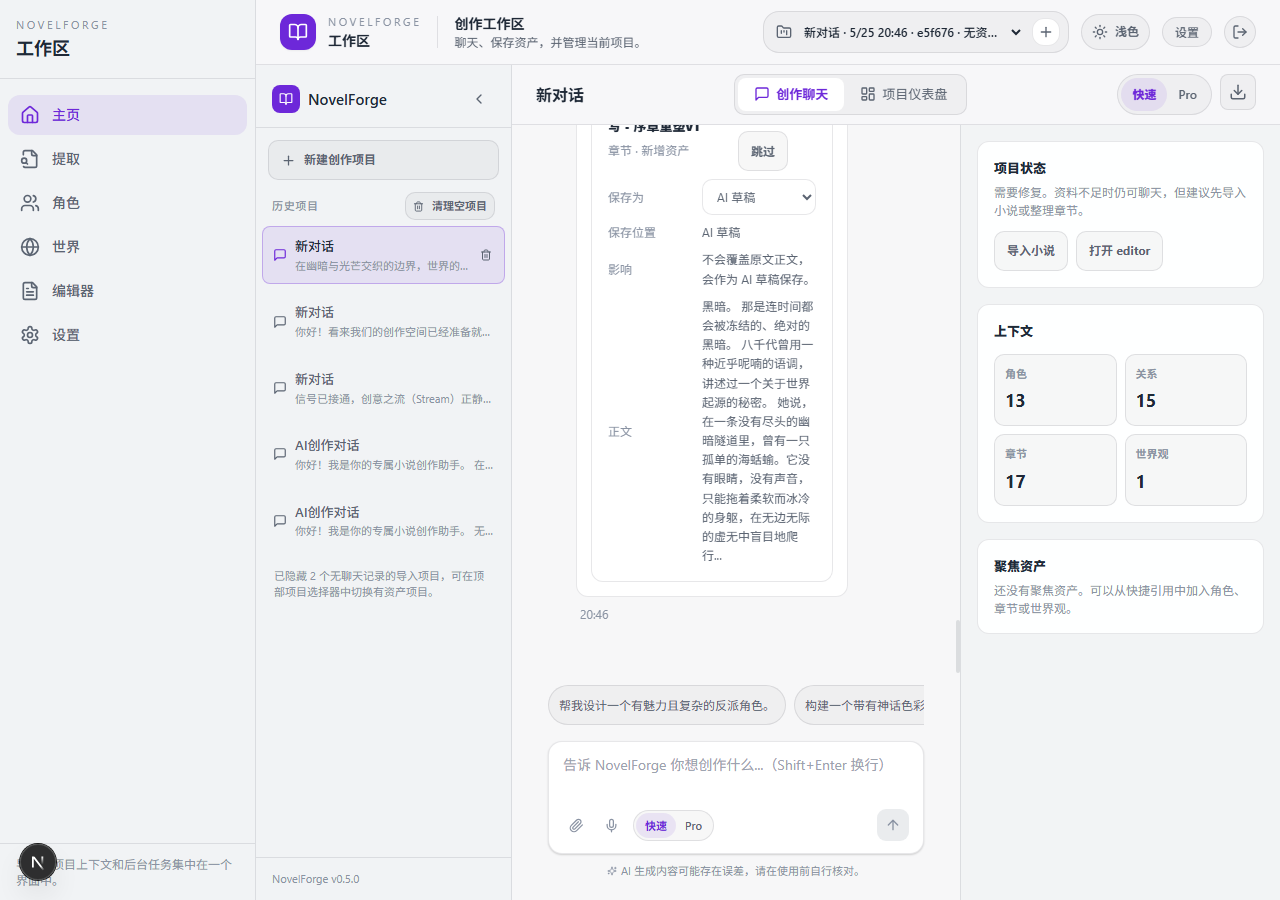
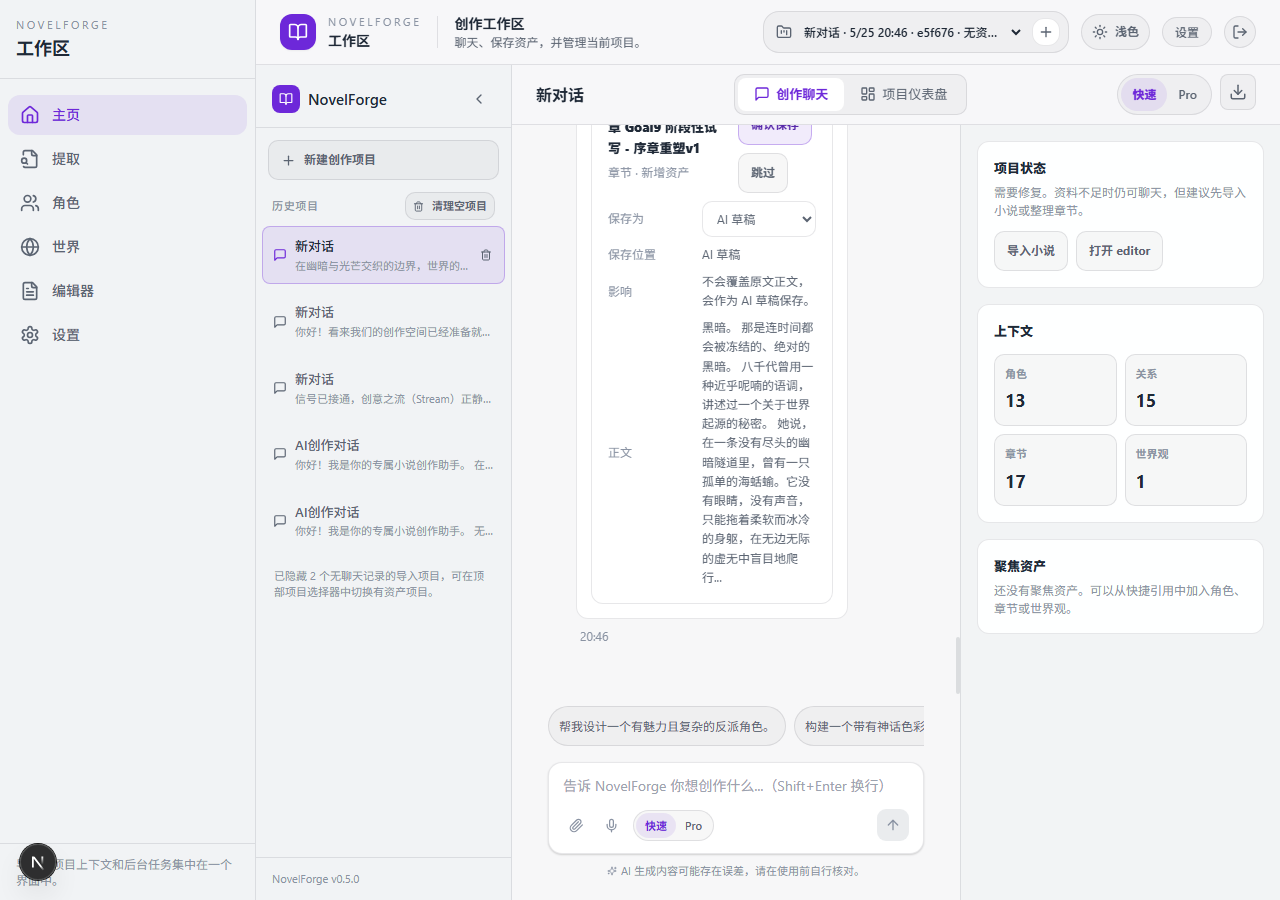
docs: complete goal16b theme evidence

diff --git a/novelforge-core/frontend/src/components/chat/MessageBubble.tsx b/novelforge-core/frontend/src/components/chat/MessageBubble.tsx
@@ -108,6 +108,25 @@ function renderMarkdown(text: string): string {
     .replace(/\n/g, '<br />');
 }
 
+function isLikelyCorruptedText(text: string): boolean {
+  const normalized = text.trim();
+  if (!normalized) return false;
+
+  const questionMarkCount = (normalized.match(/\?/g) || []).length;
+  const replacementCount = (normalized.match(/\uFFFD/g) || []).length;
+  const mojibakeCount = (normalized.match(/[ÃÂÄÅÆÇÈÉÊËÌÍÎÏÐÑÒÓÔÕÖ×ØÙÚÛÜÝÞßàáâãäåæçèéêëìíîïðñòóôõö÷øùúûüýþÿ]/g) || []).length;
+  const suspiciousCount = questionMarkCount + replacementCount + mojibakeCount;
+
+  if (questionMarkCount >= 12 && questionMarkCount / normalized.length > 0.18) return true;
+  if (replacementCount >= 2) return true;
+  return mojibakeCount >= 24 && suspiciousCount / normalized.length > 0.25;
+}
+
+function getDisplayContent(text: string): string {
+  if (!isLikelyCorruptedText(text)) return text;
+  return '这条历史消息的正文编码已损坏，已隐藏乱码内容。建议重新发送原始提示或从编辑器中的资产继续创作。';
+}
+
 function getArtifactIcon(type: string): string {
   const icons: Record<string, string> = {
     character_card: '人',
@@ -448,6 +467,7 @@ export function MessageBubble({
   onRetryMessage,
 }: MessageBubbleProps) {
   const isUser = message.role === 'user';
+  const displayContent = getDisplayContent(message.content || '');
 
   return (
     <div className={`message-animate nf-message-row ${isUser ? 'user' : 'assistant'}`}>
@@ -475,11 +495,11 @@ export function MessageBubble({
 
       <div className={`nf-message-bubble ${isUser ? 'user' : 'assistant'}`}>
         {isUser ? (
-          <span>{message.content}</span>
+          <span>{displayContent}</span>
         ) : (
           <div
             className={`prose-dark ${message.isStreaming ? 'typing-cursor' : ''}`}
-            dangerouslySetInnerHTML={{ __html: renderMarkdown(message.content || '') }}
+            dangerouslySetInnerHTML={{ __html: renderMarkdown(displayContent) }}
           />
         )}
       </div>

diff --git a/project-docs/PROGRESS.md b/project-docs/PROGRESS.md
@@ -4945,3 +4945,65 @@
   - dashboard、characters、world、editor 仍保留较多旧样式，后续应逐步迁移到同一套 `nf-*` primitives。
   - 主工作台右侧上下文栏和顶部项目状态存在信息重复，后续可以进一步压缩。
   - 本轮使用 clean fixture 做 UI 验收，没有重新跑真实长篇导入 smoke。
+
+## 2026-05-27 Goal 16B：主题系统、浅色模式与深色模式精修
+
+- 目标：
+  - 在 Goal 16 的主工作台 UI 地基上，建立真正的 light / dark / system 主题系统。
+  - 把主工作台从偏黑紫、压迫感较重的开发界面，推进到更成熟、克制、可长期迭代的 AI 创作工作台观感。
+- 已完成：
+  - 新增主题 token：
+    - `--nf-bg`
+    - `--nf-bg-subtle`
+    - `--nf-surface`
+    - `--nf-surface-raised`
+    - `--nf-border`
+    - `--nf-border-strong`
+    - `--nf-text`
+    - `--nf-text-muted`
+    - `--nf-text-subtle`
+    - `--nf-accent`
+    - `--nf-accent-soft`
+    - `--nf-success`
+    - `--nf-warning`
+    - `--nf-danger`
+    - `--nf-shadow`
+  - 新增主题运行时：
+    - `frontend/src/lib/theme.ts`
+    - `frontend/src/components/layout/theme-toggle.tsx`
+    - 页面加载前脚本读取 `?theme=` / `localStorage` / system preference，提前设置 `data-theme` 和 `color-scheme`，减少主题闪烁。
+  - 主工作台适配：
+    - 主布局、顶部栏、左侧栏、移动导航、聊天侧栏、聊天输入框、消息气泡、项目状态卡、trace / save card 的主要视觉层级已迁移到语义 token。
+    - light mode 使用浅灰页面背景、白色卡片、柔和边框和小面积紫色强调。
+    - dark mode 从纯黑紫调整为更柔和的石墨色层级，减少强紫面积。
+  - 历史乱码防护：
+    - `MessageBubble` 对高比例问号 / 典型 mojibake 的历史消息显示可读提示，避免旧数据里的不可恢复乱码直接破坏主工作台视觉验收。
+- 截图验收：
+  - 截图目录：
+    - `project-docs/screenshots/goal16b/desktop-light-default.png`
+    - `project-docs/screenshots/goal16b/desktop-dark-default.png`
+    - `project-docs/screenshots/goal16b/desktop-light-trace-expanded.png`
+    - `project-docs/screenshots/goal16b/desktop-dark-trace-expanded.png`
+    - `project-docs/screenshots/goal16b/tablet-light-default.png`
+    - `project-docs/screenshots/goal16b/tablet-dark-default.png`
+    - `project-docs/screenshots/goal16b/mobile-light-default.png`
+    - `project-docs/screenshots/goal16b/mobile-dark-default.png`
+  - 验收结果：
+    - 1280 桌面 light / dark 默认态：主题切换生效，无横向溢出，输入框和项目状态卡可读。
+    - 1280 桌面 trace 展开 light / dark：trace 可展开，计划与工具调用分组可见，save card 周边层级可读。
+    - 768 平板 light / dark：无横向溢出，主对话与上下文状态保持可用。
+    - 390 手机 light / dark：无横向溢出，聊天输入区和顶部主题状态可用。
+- 测试：
+  - `cmd /c npx tsc --noEmit --incremental false`
+    - passed
+  - `cmd /c npm test -- --run`
+    - `25 files / 104 tests passed`
+  - `cmd /c npm run build`
+    - passed
+- 当前判断：
+  - Goal 16B 已完成主题系统与主工作台 light / dark 可用性的核心目标。
+  - 这不是全站最终视觉完成态；它解决的是主工作台主题切换、明暗模式层级、历史乱码直显和多尺寸可读性问题。
+- 后续风险 / 待办：
+  - `editor` / `extract` 仍只是“不能明显破坏主题”的程度，还没有完全迁移到同一套 token。
+  - 移动端左下角任务中心浮动按钮仍略挤，后续应并入移动底部抽屉或统一任务中心入口。
+  - 主工作台仍会显示历史测试项目和旧数据，内测前建议做一次可控的数据清理 / 迁移，避免旧乱码数据影响真实用户观感。
